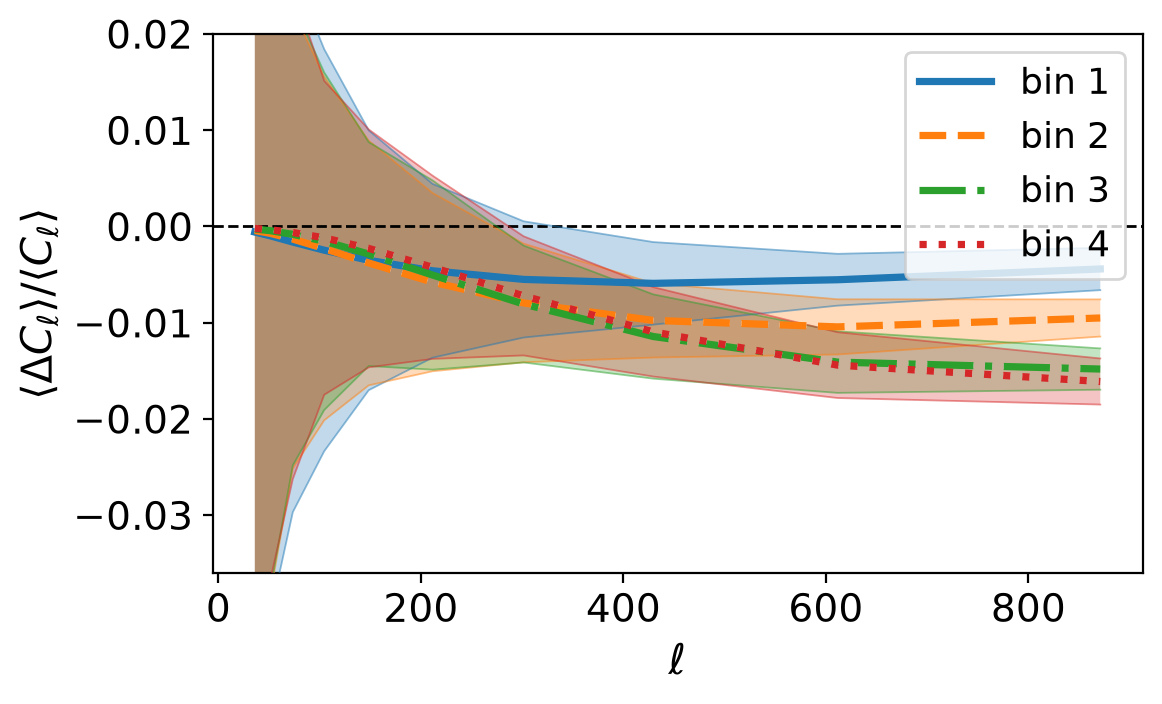
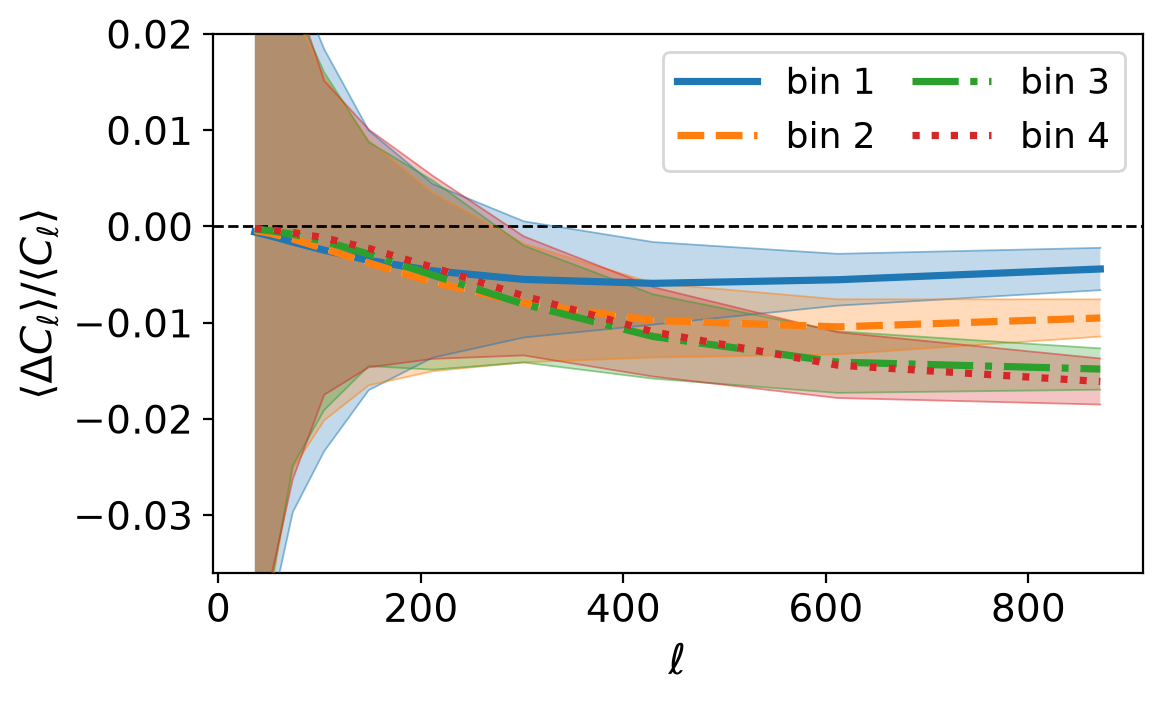
fig2: stop the legend covering the bin-1 curve
plot_ps_frac_diff.py called a bare ax.legend(), giving a full-height
single-column box that landed on the bin-1 curve and its band. Now a 2x2
two-column legend pinned upper right, which halves the height and keeps it
inside the empty top strip in both the survey-band and the 14000 deg^2
variants.

Presentation only -- the numbers in values.csv are unchanged.

Claude-Session: https://claude.ai/code/session_01SXAYVGCxtZzGWLz7XRq3UF

diff --git a/scripts/plot_ps_frac_diff.py b/scripts/plot_ps_frac_diff.py
@@ -381,7 +381,9 @@ def main():
         ax.set_ylabel(YLAB)
         if a.xscale == "log":
             ax.set_xscale("log")
-        ax.legend()
+        # Two columns: half the height keeps the box in the empty top-right strip, clear of the
+        # bin-1 curve and band that a full-height single-column legend used to sit on.
+        ax.legend(ncol=2, loc="upper right", columnspacing=1.0, handlelength=2.2)
         ylimits(ax, curves, bands)
     
     outdir = os.path.join(REPO, a.outdir)

diff --git a/paper/figures/ps_frac_diff_fig2/README.md b/paper/figures/ps_frac_diff_fig2/README.md
@@ -1,15 +1,14 @@
 # Fig. 2 - fractional baryonic impact on the auto power spectra (matched noise, survey band)
 
 - **source**: `outputs/plots/ps_frac_diff/ps_frac_diff_matched_survey`
-- **generator commit**: `unknown`
-- **generated**: 2026-08-04T16:24:22Z
-- **published**: 2026-08-04T17:09:05+00:00 at repo `a57658d9`
+- **generator commit**: `3d39df81936d88073602be68d6a734b2c4296925`
+- **generated**: 2026-08-05T15:53:09Z
+- **published**: 2026-08-05T15:54:00+00:00 at repo `3d39df81`
 - **rows in values.csv**: 40
 
 ## Known gaps
 
 - _values.csv has no seed-count column; n_seeds is the column that reveals a point averaging a different subset than it used to
-- provenance git_commit is unknown — the figure cannot be traced to the code that made it
 - provenance does not state the SCALES included (no 'scales_included', 'conventions', 'cuts', 'ps_edges' or 'lmin') — a figure that does not say which multipoles and wavelet scales went in cannot be interpreted
 
 ## Caveats (from provenance)

diff --git a/paper/figures/ps_frac_diff_fig2_14000/README.md b/paper/figures/ps_frac_diff_fig2_14000/README.md
@@ -1,15 +1,14 @@
 # Fig. 2 (14000 deg2 variant) - fractional baryonic impact on the auto power spectra
 
 - **source**: `outputs/plots/ps_frac_diff/ps_frac_diff_matched_survey_14000`
-- **generator commit**: `unknown`
-- **generated**: 2026-08-04T16:24:32Z
-- **published**: 2026-08-04T17:09:05+00:00 at repo `a57658d9`
+- **generator commit**: `3d39df81936d88073602be68d6a734b2c4296925`
+- **generated**: 2026-08-05T15:53:21Z
+- **published**: 2026-08-05T15:54:00+00:00 at repo `3d39df81`
 - **rows in values.csv**: 40
 
 ## Known gaps
 
 - _values.csv has no seed-count column; n_seeds is the column that reveals a point averaging a different subset than it used to
-- provenance git_commit is unknown — the figure cannot be traced to the code that made it
 - provenance does not state the SCALES included (no 'scales_included', 'conventions', 'cuts', 'ps_edges' or 'lmin') — a figure that does not say which multipoles and wavelet scales went in cannot be interpreted
 
 ## Caveats (from provenance)
